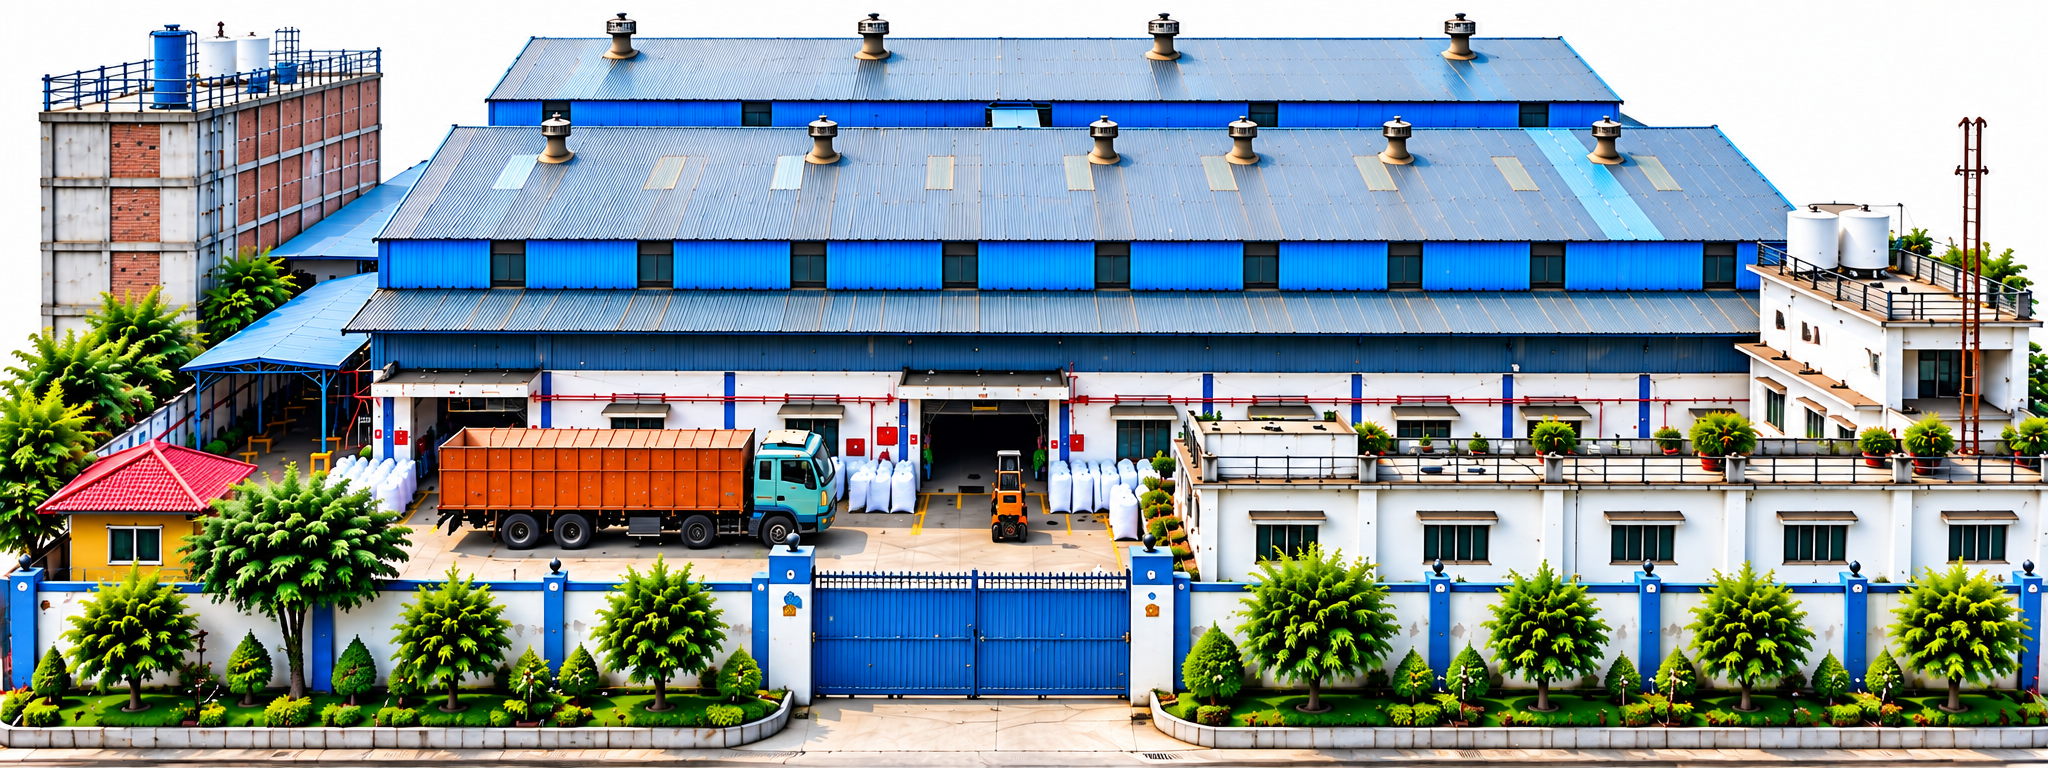
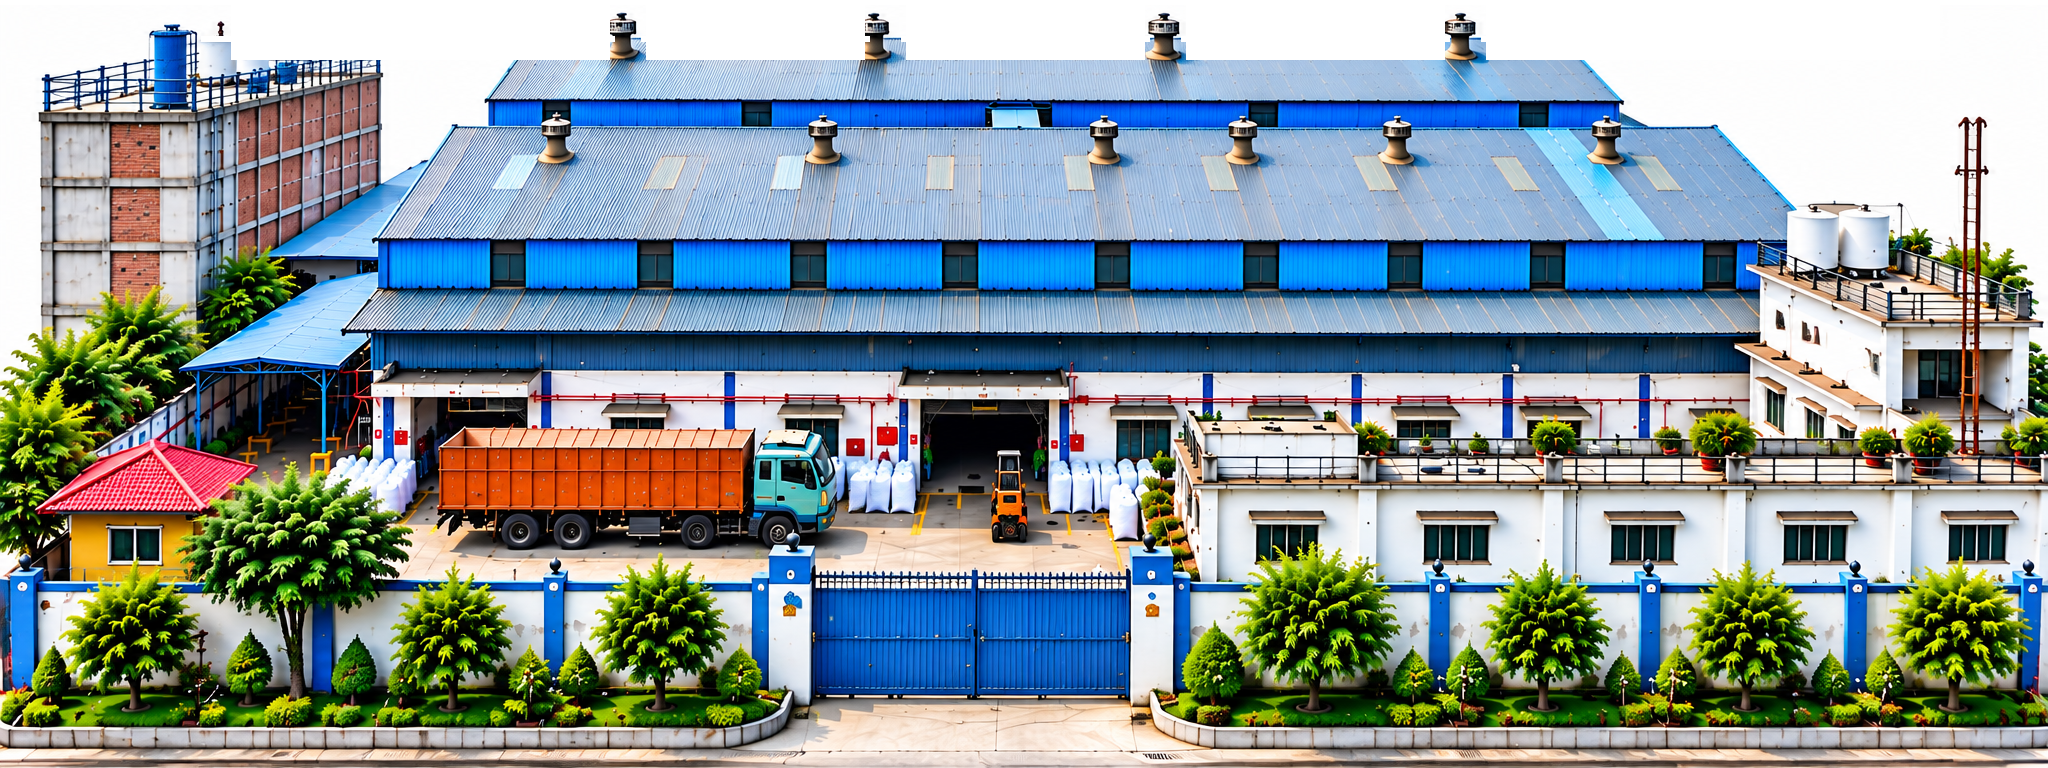
Remove horizontal seam line artifact above plant showcase image and eliminate subpixel gap

Changed region(s): [[0.25, 0.0312, 0.7812, 0.0938], [0.0938, 0.0312, 0.1875, 0.0938]]

diff --git a/distributor.html b/distributor.html
@@ -2470,8 +2470,11 @@
            ========================================================================== */
         .np-unique-showcase-section {
             position: relative;
-            background: #FFFFFF;
+            background: #FFFFFF !important;
             padding-bottom: 75px;
+            margin-top: -2px;
+            border: none !important;
+            outline: none !important;
         }
 
         .np-unique-banner-wrap {
@@ -2479,7 +2482,10 @@
             height: 480px;
             overflow: hidden;
             position: relative;
-            background: #F1F5F9;
+            background: #FFFFFF !important;
+            border: none !important;
+            outline: none !important;
+            box-shadow: none !important;
         }
 
         .np-unique-banner-img {
@@ -2488,6 +2494,8 @@
             object-fit: cover;
             object-position: center top;
             display: block;
+            border: none !important;
+            outline: none !important;
         }
 
         .np-unique-card {
